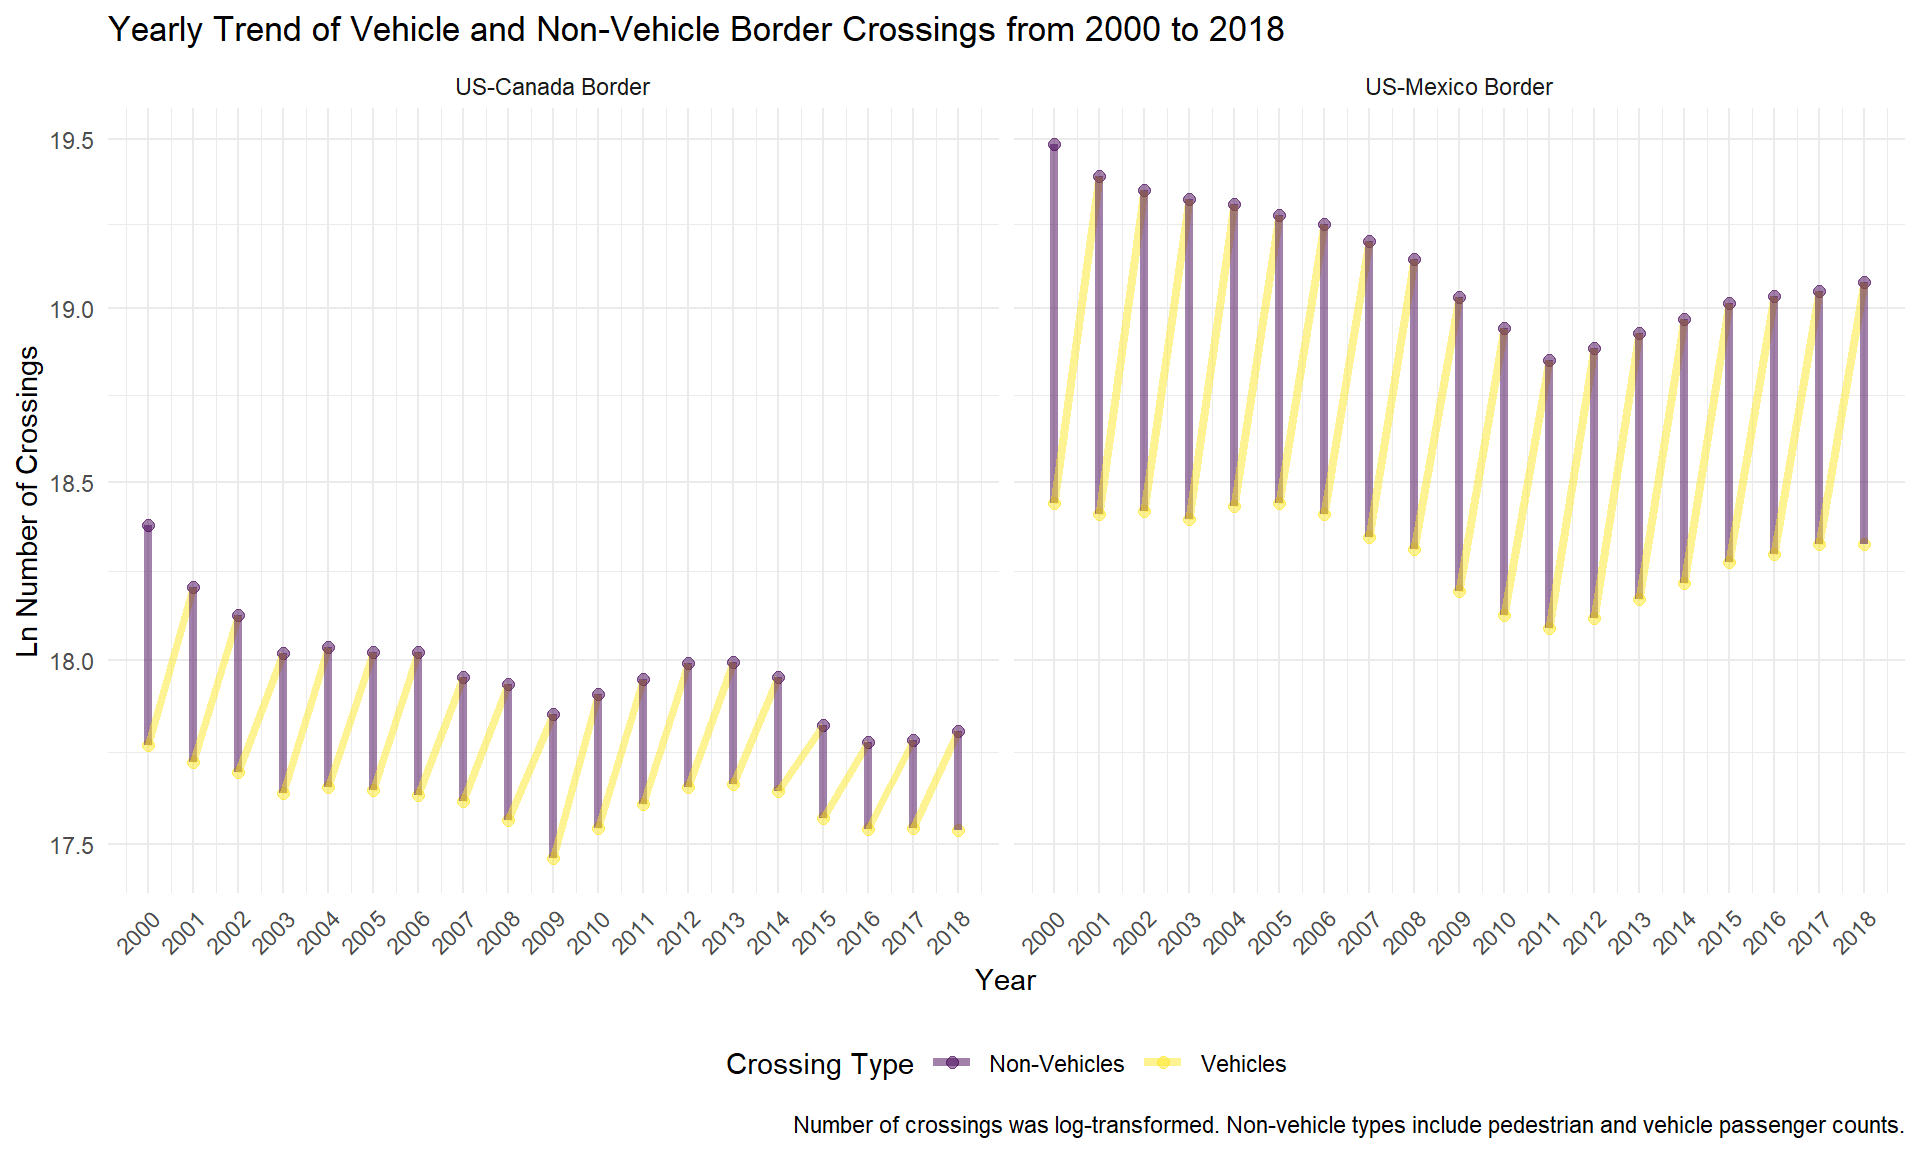
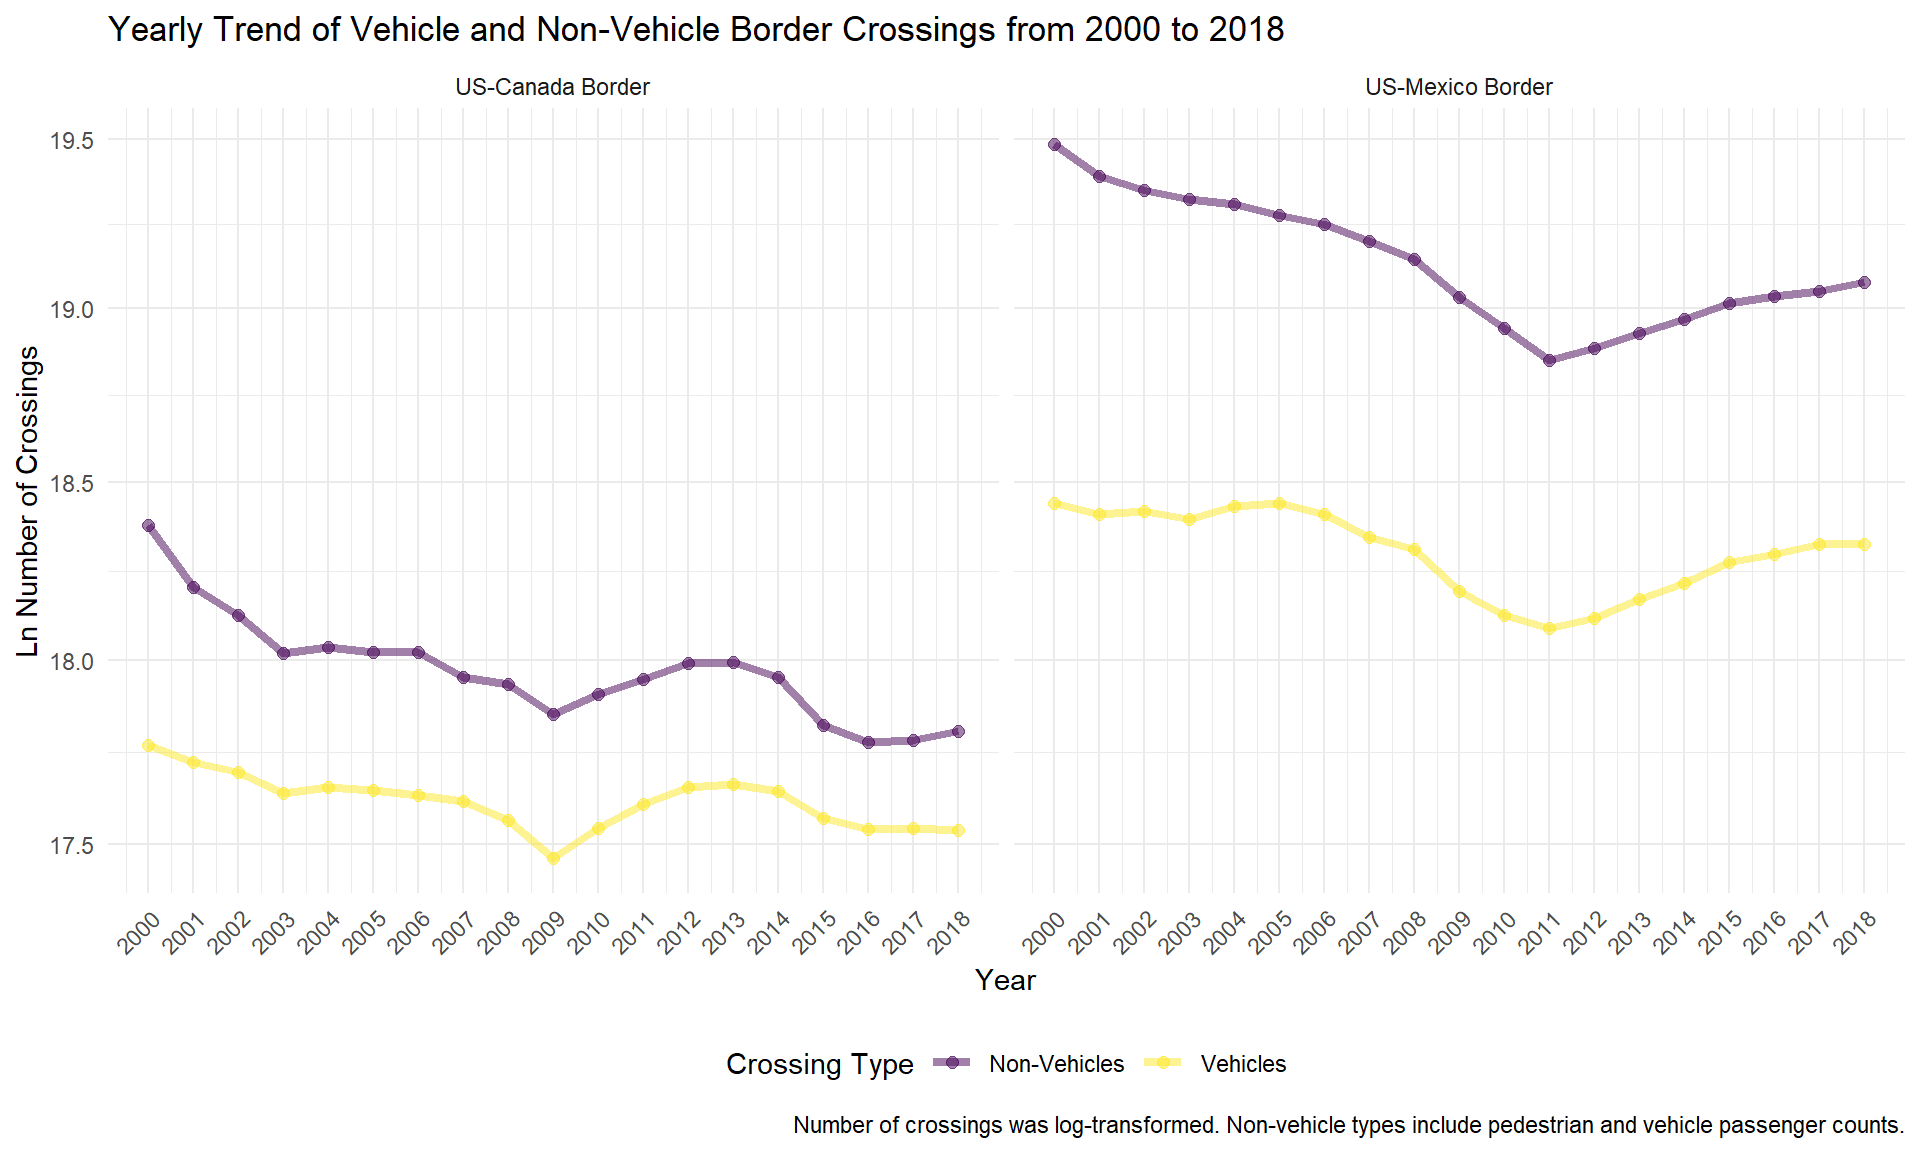
fixing vehicle middle graph

Changed region(s): [[0.5312, 0.125, 1.0, 0.5625], [0.0625, 0.4688, 0.5, 0.75]]

diff --git a/crossings_vehicles.html b/crossings_vehicles.html
@@ -455,7 +455,7 @@ vehicles_yearly %&gt;%
   group_by(vehicle, year, border) %&gt;%
   summarize(num = sum(value)) %&gt;%
   ggplot(aes(x = year, y = log(num), 
-             color = as.factor(vehicle), group = border)) +
+             color = as.factor(vehicle), as.factor(vehicle))) +
   geom_point(size = 2, alpha = 0.5) +
   geom_line(size = 1.5, alpha = 0.5) +
   facet_grid(~border) +
